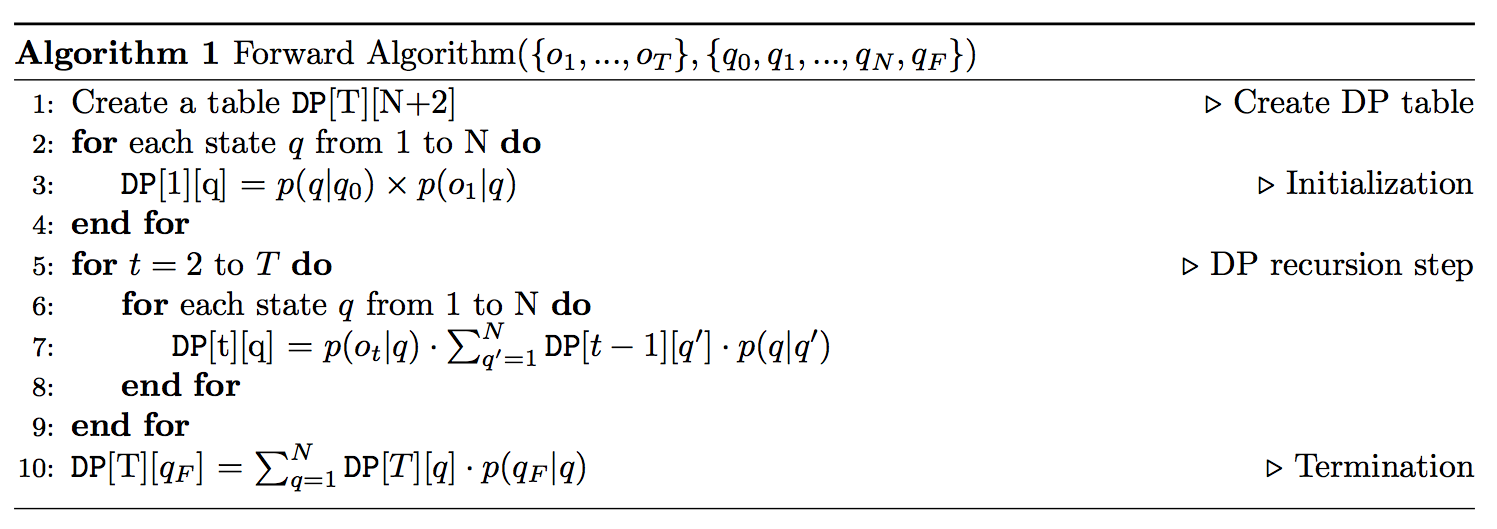
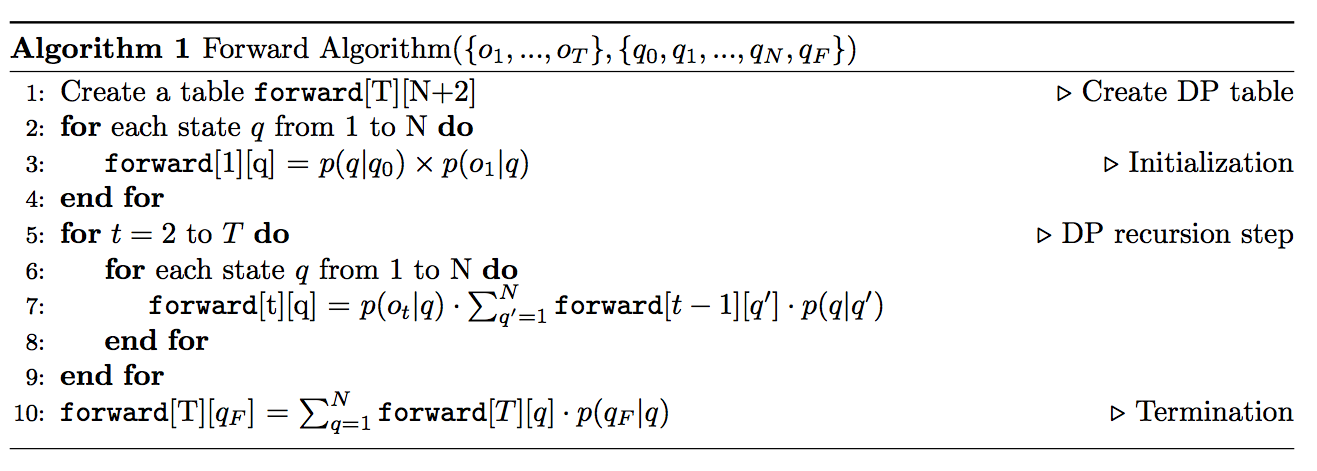
added decoding section plus its images

diff --git a/_drafts/Hidden-Markov-Model-draft.md b/_drafts/Hidden-Markov-Model-draft.md
@@ -160,33 +160,65 @@ Before formulating the DP problem, let's first generalise how this works graphic
 
 I would think about this DP problem as what I drew in Figure 5. So, we have a **Trellis** which is a graph where nodes are ordered vertically over time. Each point $$(i,j)$$ in this graph represents a node where $$i$$ represents the y-axis index and $$j$$ represents the x-axis index. Then, each node would store the solution for the subproblem which is the *"partial score up to this node"*. So each node would store the score over all the paths that lead to this node which make sense now why we need only one forward pass :)
 
-This is a generalised explanation about how to think about such DP problems to solve them. It can be used to solve different tasks also. In our case, we have the observation sequence of length T on the x-axis and the hidden states of the HMM of length N+2 (N states plus the start and end states) on the y-axis. I am going to use $$t$$ for the time step index instead of $$i$$ and $$q$$ for state index just for meaning convenience.
+This is a generalised explanation about how to think about such DP problems to solve them. It can be used to solve different tasks also. In our case, we have the observation sequence of length T on the x-axis and the hidden states of the HMM of length N+2 (N states plus the start and end states) on the y-axis. I am going to use $$t$$ for the time step index and $$q$$ for state index just for meaning convenience.
 
 Let's now go into the mathematical details of the DP formulation of this problem. Recall the formula that we want to compute:
 
 $$ p(O) = \sum_{Q} \prod_{i=1}^{T} p(q_i \vert q_{i-1}) \times p(o_i \vert q_i) $$
 
-Let $$DP[t][q]$$ be the sum of the probabilities of all paths that lead to the node at position $$(t,q)$$.
+Let $$forward[t][q]$$ be the sum of the probabilities of all paths that lead to the node at position $$(t,q)$$.
 
 Thus,
 
-$$ DP[t][q] = \sum_{q'} DP[t-1][q'] \cdot p(q \vert q') \cdot p(o_t \vert q) =  p(o_t \vert q) \cdot \sum_{q'} DP[t-1][q'] \cdot p(q \vert q')$$
+$$ forward[t][q] = \sum_{q'} forward[t-1][q'] \cdot p(q \vert q') \cdot p(o_t \vert q) $$
 
-In other words, $$DP[t][q]$$ stores the sum of all paths up to the nodes in the previous time step $$t-1$$ multiplied by the transition probability of each of these nodes to the current node (state) $$q$$ and the emission probability of generating the observation at time step $$t$$ given the current node $$q$$.
+In other words, $$forward[t][q]$$ stores the sum of all paths up to the nodes in the previous time step $$t-1$$ multiplied by the transition probability of each of these nodes to the current node (state) $$q$$ and the emission probability of generating the observation at time step $$t$$ given the current node $$q$$.
 
 Then, the pseudo code of the forward algorithm is:
 
 {% include image.html url="/images/Hidden-Markov-Model/forward_algo.png" description="" width="100%" %}
 
-Complexity: $$\mathcal{O}(N^2 T)$$
+Time Complexity: $$\mathcal{O}(N^2 T)$$
+
+Space Complexity: $$\mathcal{O}(NT)$$
 
 ## Decoding: The Viterbi Algorithm
+---
 
-<!-- ## Training HMMs
+To begin with, for such models, there is always a **decoding** task. Decoding means computing the best or most probable hidden sequence corresponding to a sequence of observations. In the ice cream example, given the observation sequence *3 1 1*, the decoder job is to find the best hidden sequence consisting of the states *{Sunny, Rainy}*.
 
-## POS Tagging
+Now, a simple approach would be to apply the forward algorithm for each possible hidden sequence (*Sunny Sunny Sunny, Sunny Rainy Sunny, etc*) and then choose the one having the best (max) likelihood probability. However, as we said before, this will be exponential and so computationally expensive.
 
-## Code  -->
+<!-- I would suggest to think a bit how would you solve this problem before continue reading.
+*-> Hint*: It is quite similar to the forward algorithm. -->
+
+To solve this problem efficiently, we need to somehow try to do only one pass over the observation sequence as we did before. In addition, you might have noticed that the main operation that we need here is "max" instead of "sum". Then, the algorithm should be quite similar to the forward algorithm right? Try to think a bit how would you do it.
+
+Therefore, we can use what's called the **Viterbi algorithm**. It also uses dynamic programming to compute the result efficiently. So, formally speaking we have:
+
+$$ viterbi[t][q] = \max_{q_0, ..., q_{t-1}} p(q_0, q_1, ..., q_{t-1}, o_1, ..., o_t, q_t = q \vert \mathcal{G}) $$
+
+In other words, $$viterbi[t][q]$$ is the probability of being in state $$q$$ of the HMM after seeing $$t$$ observations and passing through the best hidden sequence up to state $$q$$.
+
+Then, the calculation is:
+
+$$ viterbi[t][q] = \max_{q'} viterbi[t-1][q'] \cdot p(q \vert q') \cdot p(o_t \vert q) $$
+
+Thus, the pseudocode looks as follows:
+
+{% include image.html url="/images/Hidden-Markov-Model/viterbi_algo.png" description="" width="100%" %}
+
+Time Complexity: $$\mathcal{O}(N^2 T)$$
+
+Space Complexity: $$\mathcal{O}(2NT)$$
+
+Note that we have an extra table called $$backpointer$$ in this algorithm. The reason why we need this table is because we want to be able to trace back the best path and so we use this table to store the index of the best previous state for each state at each time $$t$$.
+
+## Training HMMs
+---
+Now we come to the last problem which is how to compute the parameters of the HMM.
+
+<!-- ## POS Tagging -->
 
 ## Reference:
 ---
